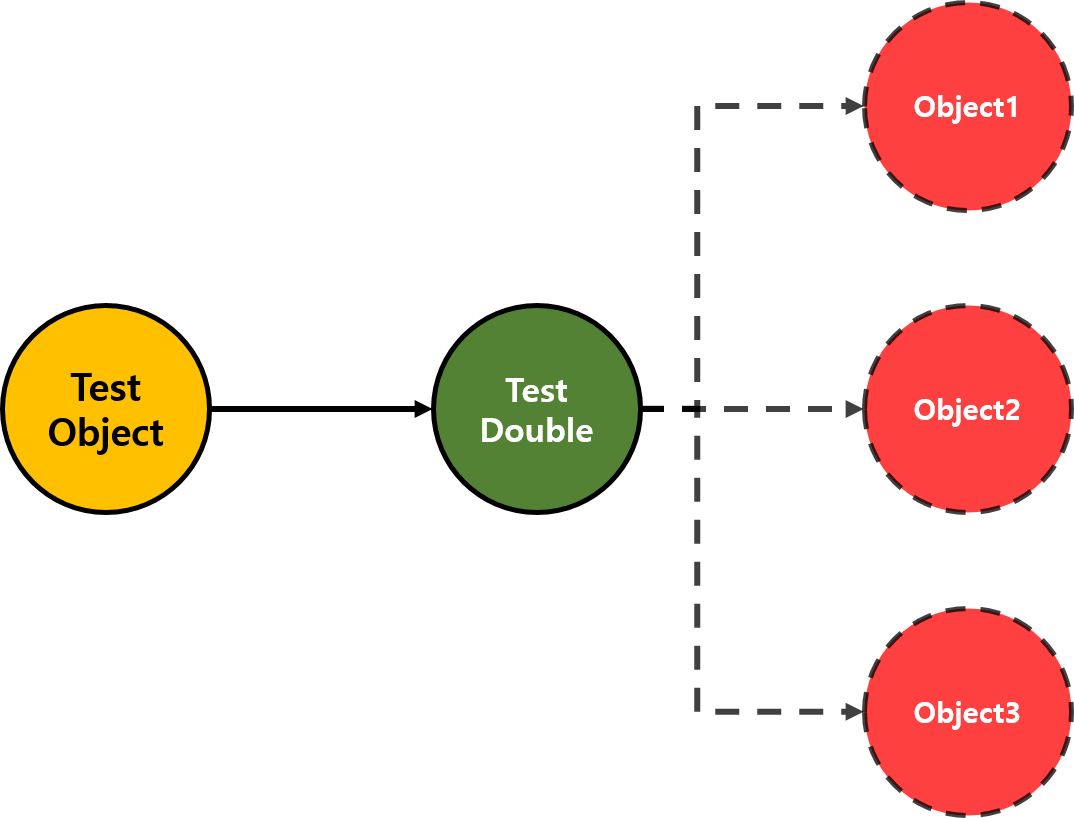
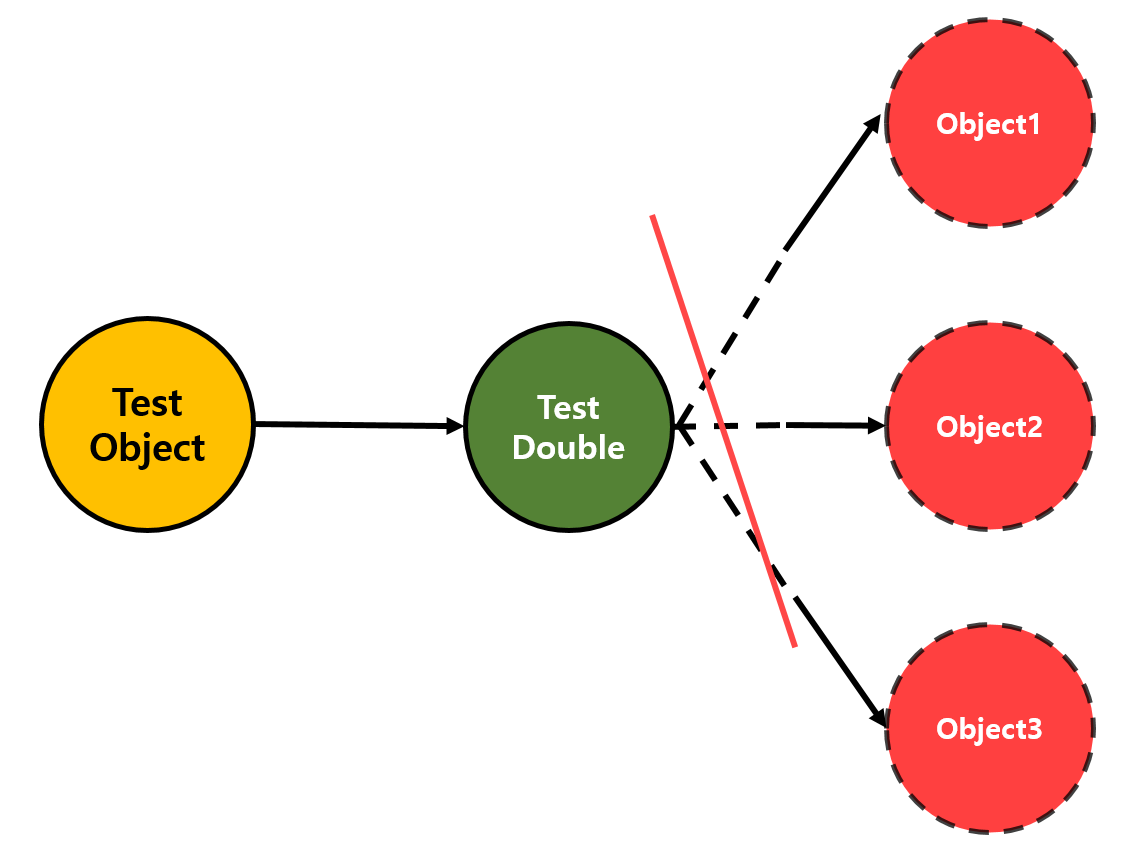
stub add 20181007

diff --git a/_posts/2018-09-28-test-double.md b/_posts/2018-09-28-test-double.md
@@ -45,19 +45,16 @@ _a trained professional who stands in for an actor in order to perform dangerous
 <img src="/md/img/test-double/test-real-object.png">
 <em>Class Dependency Relationship</em>
 
-
-
-그 이유인즉슨 테스트 대상이 될 객체를 직접 사용하게 되면 실제 객체(Real Object)와 의존관계가 형성된 다른 객체 간의 상호관계에서 발생하는 부작용을 일으키기 때문에 테스트 시에 실체 객체를 대신 할 수 있는 독립된 객체(테스트 더블)를 생성하여 사용한다.
-
-이처럼 테스트 더블을 사용하는 가장 큰 이유는 테스트 객체의 독립성을 보장받기 때문이다. 이는 테스트 시에 발생하는 위험요소를 최소화할 방법이다. 또한, 테스트 코드의 복잡성이 줄이고 시스템의 나머지 부분과 독립적으로 코드를 검증할 수 있게 도와준다.
-
+다음 그림과 같이 테스트 시 실제 객체를 사용하면 이와 관계를 맺은 다른 객체들에 의해 값이 변경되거나 해당 객체만 테스트하기 어려운 부작용이 생긴다. 이러한 부작용들 때문에 해당 객체를 독립적인 객체로 만드는 코드를 작성하는 경우가 생긴다.
+이러한 행위는 결과적으로 추가적인 코드로 인해 테스트 코드가 복잡해진다. 
 
 <img src="/md/img/test-double/test-double-object.png">
-<em>테스트의 의존관계</em>
+<em>Class Independency Relationship of Test Double</em>
 
+테스트 더블은 다음 그림과 같이 관계를 맺은 객체를 배제해 독립성을 갖게 해주고 실체 객체와 같은 행동을 하는 객체를 생성한다.
+이처럼 독립된 객체를 테스트로 사용하는 이유는 테스트 시에 발생하는 예측 불가능한 위험요소를 최소화할 방법이기 때문이다. 또한, 테스트 코드의 복잡성이 줄이고 시스템의 나머지 부분과 독립적으로 코드를 검증할 수 있게 도와준다. 이외에 특수한 상황을 테스트한다거나 감춰진 정보를 얻기 위해 사용하기도 한다.
 
-
-테스트 더블에는 `Test stub`, `Mock object`, `Test spy`, `Fake object`, `Dummy object`가 있다.
+테스트 더블에는 `Test stub`, `Mock object`, `Test spy`, `Fake object`, `Dummy object`가 있다. 각각의 용도가 다르므로 테스트 객체의 목적에 따라 구분하고 사용해야 한다.
 
 > [Types of test doubles](https://en.wikipedia.org/wiki/Test_double) <br/>
 > - Test stub <br/>
@@ -66,23 +63,54 @@ _a trained professional who stands in for an actor in order to perform dangerous
 > - Fake object <br/>
 > - Dummy object <br/>
 
-테스트 더블의 종류는 각각의 용도가 다르므로 테스트 객체의 목적에 따라 구분하고 사용해야 한다.
-
 ---
 
 ### Stub
 
 _used for providing the tested code with "indirect input"_
 
-Test Stub 은 테스트 중에 작성된 호출에 대한 미리 준비된 답변을 제공한다. 일반적으로 테스트를 위해 프로그래밍 된 내용 외에는 응답하지 않는다.
+Test Stub은 사전에 정의된 데이터를 보유하고 특정 객체 호출할 때 값을 정의해둔 데이터로 대체하는 테스트 더블이다. 즉 Stub은 로직이 없고 단지 원하는 값을 반환한다. 이 때문에 테스트 시에 '이 객체는 무조건 이 값을 반환한다.'라고 가정할 경우 사용한다. 또한, 실제 객체의 데이터를 사용할 때 위험이 있거나 객체를 포함할 수 없는 경우, 또는 원하지 않을 때도 사용한다.
 
-Stub은 로직이 없고 단지 원하는 값을 반환합니다. 테스트시에 “이 객체는 무조건 이 값을 반환한다”고 가정할 경우 사용할 수 있습니다. Stub은 보통 작성하기 쉽지만 불필요한 boilerplate 코드를 줄이기 위해서 Mocking Framework을 이용하는게 편합니다.
+<img src="/md/img/test-double/stub.png">
+<em>Test Stub</em>
 
+가장 단순한 예로는 메소드 호출에 응답하기 위해 데이터베이스에서 일부 데이터를 가져와야 하는 객체다. 실제 객체 대신 Stub을 통해 반환할 데이터를 정의한다.
 
-변형 : 테스트 스텁
-우리는 사용하는 테스트 스텁 (페이지 X)를 하는 진정한 구성 요소 교체 SUT는 테스트가 갖도록 따라 제어 지점 에 대한 간접적 인 입력 의 SUT를 . 이렇게하면 테스트를 통해 SUT 가 달리 실행되지 않을 수도있는 경로 를 강제 로 중단시킬 수 있습니다
+``` java
+public class UserService {
+    private final UserFactor userFactor;
+    
+    public UserService(UserFactor userFactor) {
+        this.userFactor = userFactor;
+    }
+    
+    Double avgAmt(UserDao userDao) {
+        return userFactor.avgAmt(userDao);
+    }
+}
+```
 
-어떤 사람들은 "Test Stub"이라는 용어를 사용하여 실제 객체 나 프로 시저를 사용할 수있을 때까지만 사용되는 임시 구현을 의미합니다. 혼란을 피하기 위해 이것을 임시 테스트 스텁 (Test Stub 참조) 이라고 부릅니다 .
+Gradebook 저장소에서 실제 학생 성적을 얻기 위해 데이터베이스를 호출하는 대신 반환 될 성적으로 스텁을 사전 구성합니다. 평균 계산 알고리즘을 테스트하기에 충분한 데이터를 정의합니다.
+
+``` java
+public class GradesServiceTest {
+    private Student student;
+    private Gradebook gradebook;
+
+    @Before
+    public void setUp() throws Exception {
+        gradebook = mock(Gradebook.class);
+        student = new Student();
+    }
+
+    @Test
+    public void calculates_grades_average_for_student() {
+        when(gradebook.gradesFor(student)).thenReturn(grades(8, 6, 10)); //stubbing gradebook
+        double averageGrades = new GradesService(gradebook).averageGrades(student);
+        assertThat(averageGrades).isEqualTo(8.0);
+    }
+}
+```
 
 ---
 
